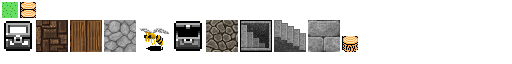
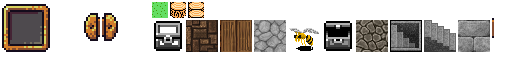
Added better ui to the hotkeys

diff --git a/core/src/com/gdxjam/systems/GUISystem.java b/core/src/com/gdxjam/systems/GUISystem.java
@@ -6,10 +6,16 @@ import com.badlogic.gdx.graphics.Color;
 import com.badlogic.gdx.graphics.OrthographicCamera;
 import com.badlogic.gdx.scenes.scene2d.Actor;
 import com.badlogic.gdx.scenes.scene2d.Stage;
+import com.badlogic.gdx.scenes.scene2d.ui.ImageButton;
+import com.badlogic.gdx.scenes.scene2d.ui.ImageTextButton.ImageTextButtonStyle;
 import com.badlogic.gdx.scenes.scene2d.ui.Label;
+import com.badlogic.gdx.scenes.scene2d.ui.Label.LabelStyle;
 import com.badlogic.gdx.scenes.scene2d.ui.Skin;
 import com.badlogic.gdx.scenes.scene2d.ui.Table;
 import com.badlogic.gdx.scenes.scene2d.ui.TextButton;
+import com.badlogic.gdx.scenes.scene2d.ui.TextButton.TextButtonStyle;
+import com.badlogic.gdx.scenes.scene2d.utils.NinePatchDrawable;
+import com.badlogic.gdx.scenes.scene2d.utils.TextureRegionDrawable;
 import com.badlogic.gdx.utils.Array;
 import com.badlogic.gdx.utils.Scaling;
 import com.badlogic.gdx.utils.viewport.ScalingViewport;
@@ -44,7 +50,10 @@ public class GUISystem extends EntitySystem {
 
 	public void init() {
 		Skin skin = Assets.getManager().get(Assets.SKIN, Skin.class);
-		foodLabel = new Label("Food: 0 / 0", skin);
+		// foodLabel = new Label("Food: 0 / 0", skin);
+		LabelStyle labelStyle = new LabelStyle(
+				Assets.getInstance().fonts.small, Color.WHITE);
+		foodLabel = new Label("Food: 0 / 0", labelStyle);
 		// foodLabel.setPosition(camera.viewportWidth - 100,
 		// camera.viewportHeight - 50);
 		// foodLabel.setSize(3, 1);
@@ -57,20 +66,43 @@ public class GUISystem extends EntitySystem {
 		stage.addActor(table);
 		table.top().right();
 
-		stage.addActor(foodLabel);
+		stage.addActor(table);
 
 		Table bottomHotkeys = new Table();
-		bottomHotkeys.defaults().pad(10);
+		// bottomHotkeys.defaults().pad(10);
+		ImageButton left = new ImageButton(new TextureRegionDrawable(
+				Assets.getInstance().hotkey.left));
+		bottomHotkeys.add(left);
 
 		for (int x = 0; x < squads.size; x++) {
-			TextButton btn = new TextButton(x + 1 + "", skin);
+			NinePatchDrawable draw = new NinePatchDrawable(
+					Assets.getInstance().hotkey.button);
+
+			TextButtonStyle style = new ImageTextButtonStyle();
+			style.up = draw;
+			style.down = draw.tint(Color.GREEN);
+			style.checked = draw;
+			style.font = Assets.getInstance().fonts.medium;
+
+			TextButton btn = new TextButton(x + 1 + "", style);
+
 			bottomHotkeys.add(btn);
 			hotkeys.add(btn);
 
+			if (x < squads.size - 1) {
+				ImageButton middle = new ImageButton(new TextureRegionDrawable(
+						Assets.getInstance().hotkey.middle));
+				bottomHotkeys.add(middle);
+			}
+
 		}
 
+		ImageButton right = new ImageButton(new TextureRegionDrawable(
+				Assets.getInstance().hotkey.right));
+		bottomHotkeys.add(right);
+
 		bottomHotkeys.setPosition(
-				camera.viewportWidth / 2 - bottomHotkeys.getWidth(), 10);
+				camera.viewportWidth / 2 - bottomHotkeys.getWidth(), 25);
 
 		stage.addActor(bottomHotkeys);
 	}
@@ -79,9 +111,9 @@ public class GUISystem extends EntitySystem {
 	public void update(float deltaTime) {
 		super.update(deltaTime);
 
-		for (int x = 0; x < squads.size; x++) {
+		for (int x = 0; x < hotkeys.size; x++) {
 			if (squads.get(x).isSelected()) {
-				hotkeys.get(x).setColor(Color.GREEN);
+				hotkeys.get(x).setColor(Color.DARK_GRAY);
 			} else {
 				hotkeys.get(x).setColor(Color.GRAY);
 			}

diff --git a/core/src/com/gdxjam/Assets.java b/core/src/com/gdxjam/Assets.java
@@ -6,6 +6,7 @@ import com.badlogic.gdx.assets.AssetErrorListener;
 import com.badlogic.gdx.assets.AssetManager;
 import com.badlogic.gdx.graphics.Color;
 import com.badlogic.gdx.graphics.g2d.BitmapFont;
+import com.badlogic.gdx.graphics.g2d.NinePatch;
 import com.badlogic.gdx.graphics.g2d.TextureAtlas;
 import com.badlogic.gdx.graphics.g2d.TextureAtlas.AtlasRegion;
 import com.badlogic.gdx.graphics.g2d.freetype.FreeTypeFontGenerator;
@@ -15,19 +16,19 @@ import com.badlogic.gdx.utils.Array;
 import com.badlogic.gdx.utils.Disposable;
 
 public class Assets implements Disposable, AssetErrorListener {
-	
+
 	public static final String TAG = Assets.class.getSimpleName();
 	private static Assets instance;
 	public static AssetManager manager;
-	
-	public static Assets getInstance(){
-		if(instance == null){
+
+	public static Assets getInstance() {
+		if (instance == null) {
 			instance = new Assets();
 		}
 		return instance;
 	}
-	
-	public static AssetManager getManager(){
+
+	public static AssetManager getManager() {
 		return manager;
 	}
 
@@ -50,18 +51,20 @@ public class Assets implements Disposable, AssetErrorListener {
 	public AssetWarrior warrior;
 	public AssetWizard wizard;
 	public AssetColor color;
-	
-	public Assets(){
+
+	public AssetHotkey hotkey;
+
+	public Assets() {
 		manager = new AssetManager();
-		manager.setErrorListener(this);		// set asset manager error handler
-		
+		manager.setErrorListener(this); // set asset manager error handler
+
 		loadAssets();
-		
-		Gdx.app.debug(TAG,
-			"# of assets loaded: " + manager.getAssetNames().size);
+
+		Gdx.app.debug(TAG, "# of assets loaded: "
+				+ manager.getAssetNames().size);
 		for (String a : manager.getAssetNames()) {
 			Gdx.app.debug(TAG, "asset: " + a);
-			
+
 			TextureAtlas atlas = manager.get(TEXTURE_ATLAS_OBJECTS);
 
 			fonts = new AssetFonts();
@@ -79,12 +82,13 @@ public class Assets implements Disposable, AssetErrorListener {
 			warrior = new AssetWarrior(atlas);
 			wizard = new AssetWizard(atlas);
 			post = new AssetPost(atlas);
+			hotkey = new AssetHotkey(atlas);
 
 			color = new AssetColor();
 		}
 	}
-	
-	public void loadAssets(){
+
+	public void loadAssets() {
 		manager.load(TEXTURE_ATLAS_OBJECTS, TextureAtlas.class);
 		manager.load(SKIN, Skin.class);
 		manager.finishLoading();
@@ -201,6 +205,21 @@ public class Assets implements Disposable, AssetErrorListener {
 
 		public AssetStairsDown(TextureAtlas atlas) {
 			reg = atlas.findRegion("stairsdown");
+		}
+	}
+
+	public class AssetHotkey {
+		public final AtlasRegion left;
+		public final NinePatch button;
+		public AtlasRegion middle;
+		public AtlasRegion right;
+
+		public AssetHotkey(TextureAtlas atlas) {
+			left = atlas.findRegion("hotkeyleft");
+			button = new NinePatch(atlas.findRegion("hotkey"));
+			right = atlas.findRegion("hotkeyright");
+			middle = atlas.findRegion("middlehotkey");
+
 		}
 	}
 
